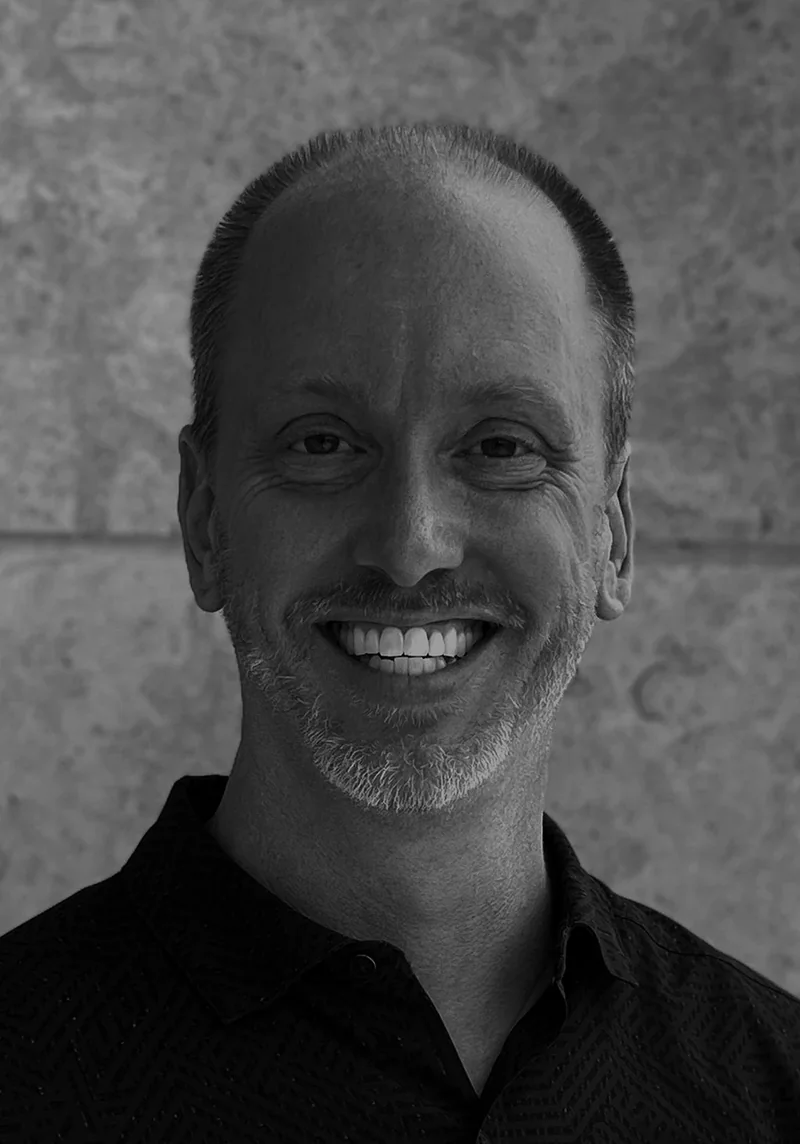
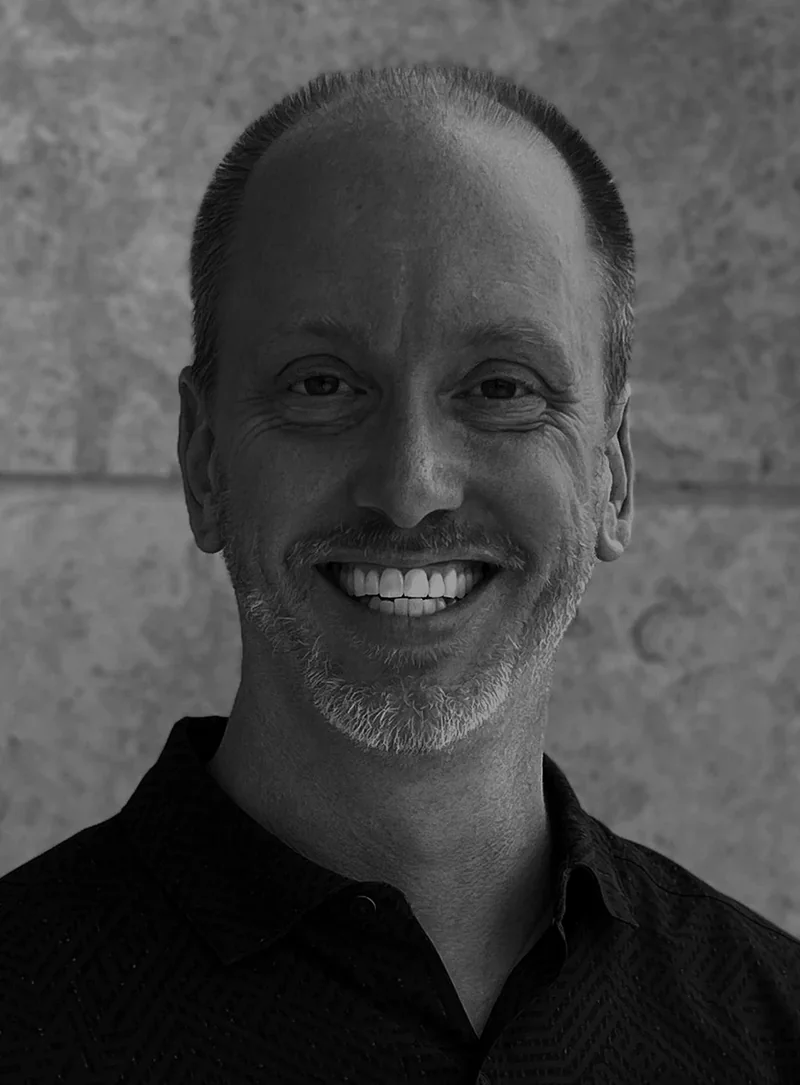
About: his new portrait
Same placement and framing; 800 x 1085 WebP.

diff --git a/components/About.tsx b/components/About.tsx
@@ -67,7 +67,7 @@ export default function About({ settings, years }: { settings: Settings; years: 
             src="/images/matthew-bell.webp"
             alt="Matthew Bell"
             width={800}
-            height={1144}
+            height={1085}
             loading="lazy"
             decoding="async"
             style={{ display: 'block', width: '100%', maxWidth: 280, height: 'auto', marginBottom: 28, border: '0.5px solid var(--border)' }}
